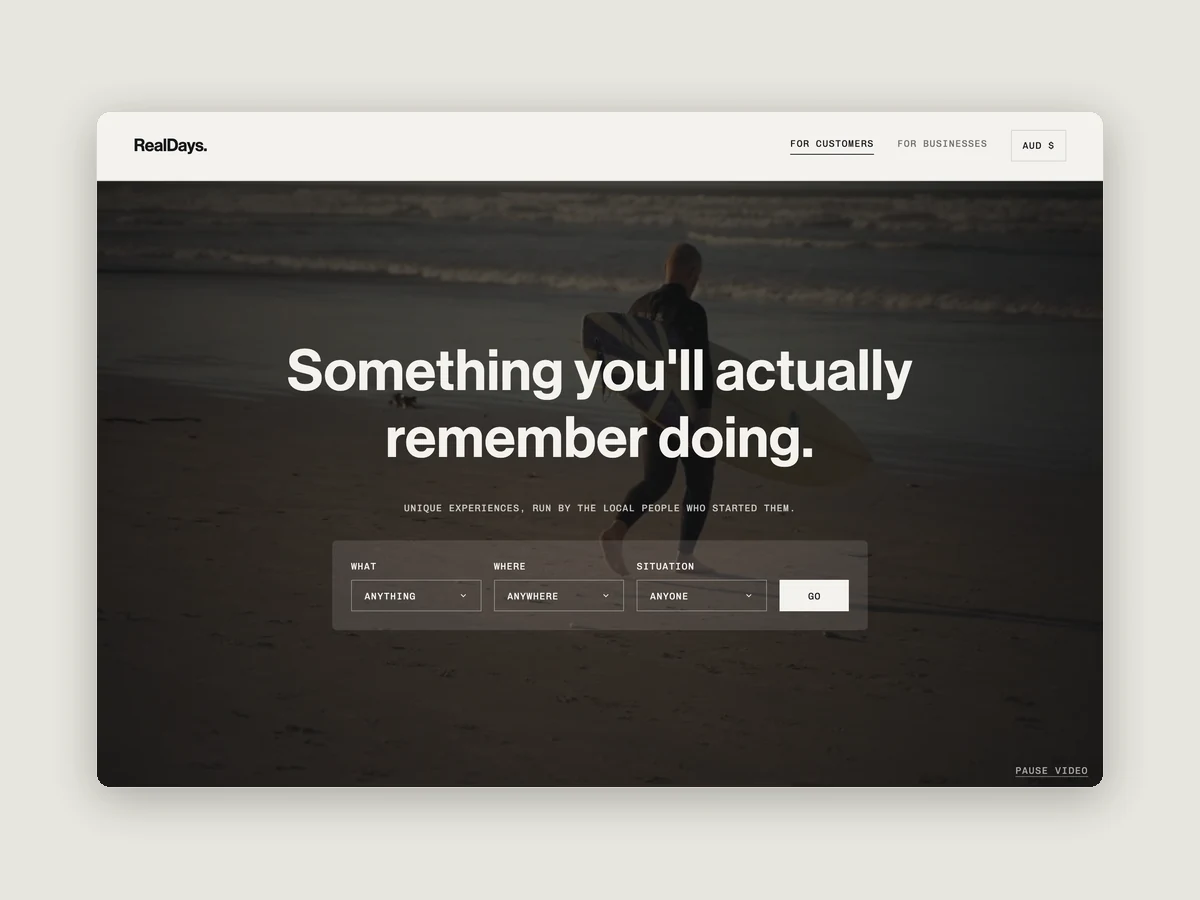
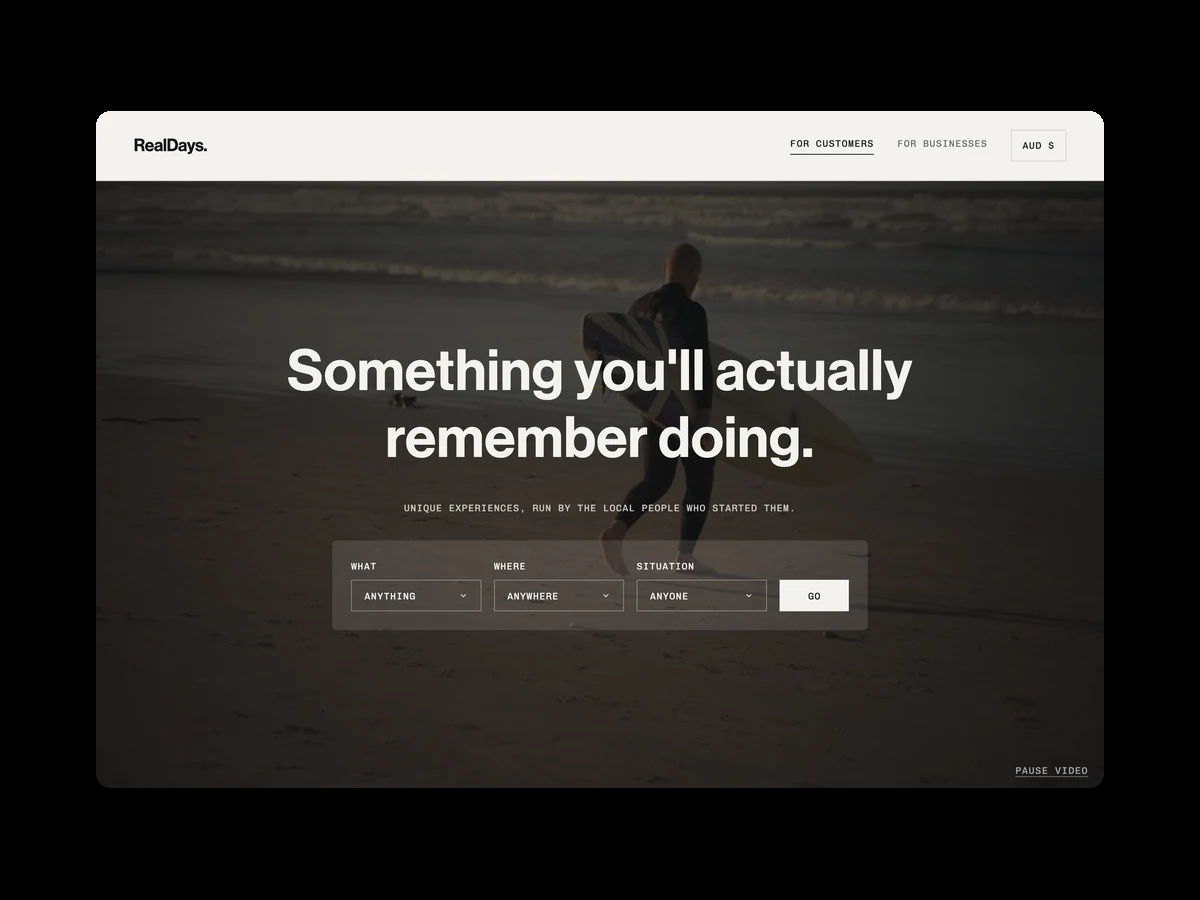
Ventures filter pill; RealDays thumbnail on pure black

diff --git a/index.html b/index.html
@@ -80,18 +80,19 @@
         <li><button class="filter" type="button" data-filter="ai" aria-pressed="false">AI <span class="filter__count">4</span></button></li>
         <li><button class="filter" type="button" data-filter="fintech" aria-pressed="false">Fintech <span class="filter__count">3</span></button></li>
         <li><button class="filter" type="button" data-filter="brand" aria-pressed="false">Brand <span class="filter__count">4</span></button></li>
+        <li><button class="filter" type="button" data-filter="ventures" aria-pressed="false">Ventures <span class="filter__count">2</span></button></li>
       </ul>
       <p class="visually-hidden" aria-live="polite" id="filter-status"></p>
       <ul class="grid">
-      <li class="card" data-filters="product-design research ai">
-        <img class="card__img" src="assets/img/home/realdays-1.webp?v=2" alt="RealDays homepage: Something you’ll actually remember doing" loading="lazy" decoding="async">
+      <li class="card" data-filters="product-design research ai ventures">
+        <img class="card__img" src="assets/img/home/realdays-1.webp?v=3" alt="RealDays homepage: Something you’ll actually remember doing" loading="lazy" decoding="async">
         <h3 class="card__title">RealDays</h3>
         <p class="card__client">My venture, Victoria and Bali</p>
         <ul class="tags"><li>Venture</li><li>Product design</li><li>AI</li></ul>
         <p class="card__summary">A booking platform for small, owner-run experience businesses, from motorbike research in Bali to Stripe payments and listings arranged for AI search.</p>
           <a class="card__link" href="/projectrealdays">See Project <svg class="icon icon--arrow" viewBox="0 -960 960 960" aria-hidden="true" focusable="false"><path d="m256-240-56-56 384-384H240v-80h480v480h-80v-344L256-240Z"/></svg></a>
       </li>
-      <li class="card" data-filters="product-design ai">
+      <li class="card" data-filters="product-design ai ventures">
         <div class="card__img card__media card__media--threshold">
           <video class="card__video card__video--fill" src="assets/video/threshold-booking.mp4"
                  poster="assets/img/home/threshold-booking-poster.webp"
